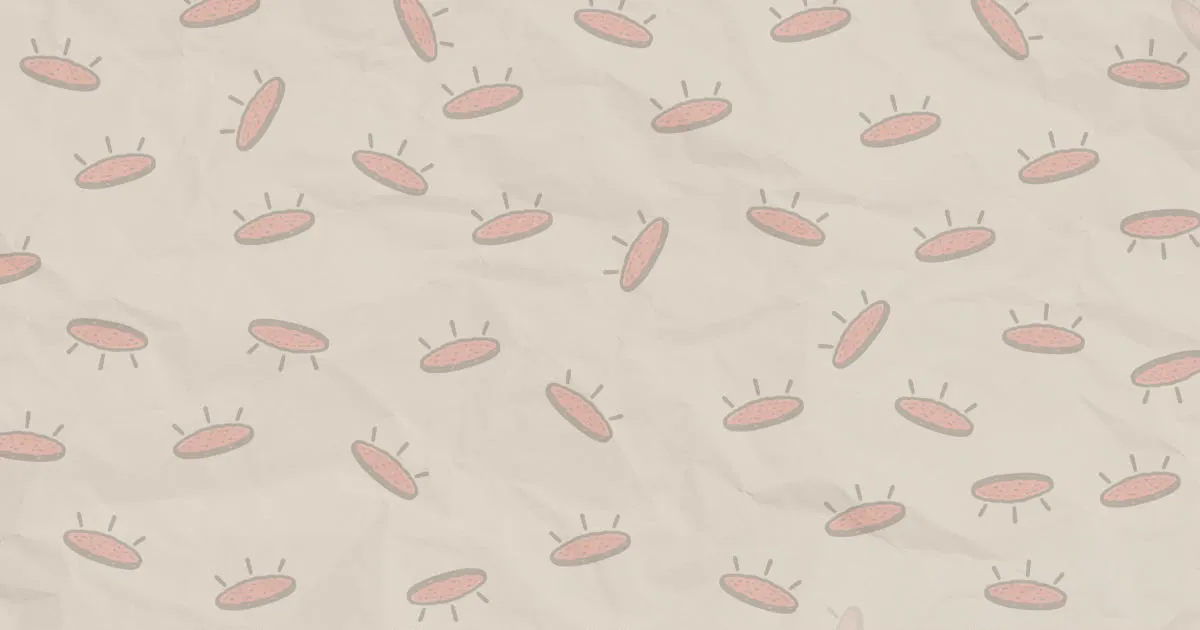
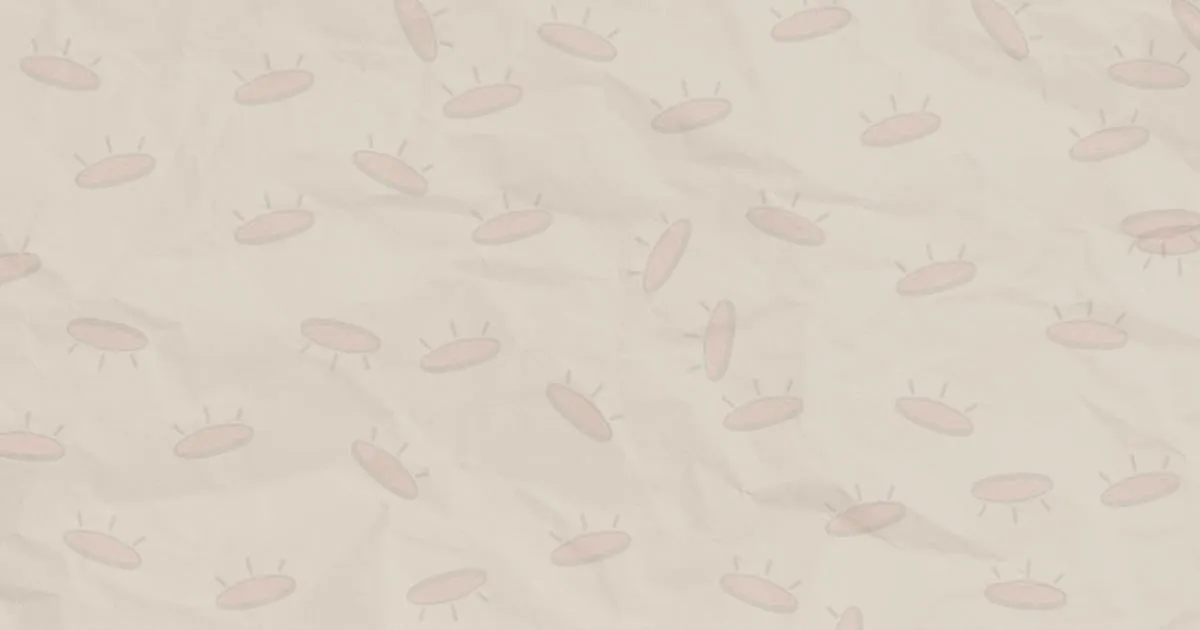
feat: capa com fundo claro da Brenda e selo do boi grande no lugar do quadro

diff --git a/style.css b/style.css
@@ -59,9 +59,7 @@ h1, h2, .titulo, .card h3 { font-family: 'Bebas Neue', 'Poppins', sans-serif; fo
 .hero {
   display: flex; align-items: center; justify-content: center; gap: 48px;
   padding: 48px 16px 56px;
-  background:
-    radial-gradient(circle at 15% 20%, var(--rosa), transparent 45%),
-    radial-gradient(circle at 85% 80%, var(--creme), transparent 50%);
+  background: url(img/capa-fundo.webp) center / cover; /* fundo de carninhas da Brenda (versão clara) */
 }
 .kicker { margin: 0; color: var(--md-sys-color-primary); font-weight: 600; text-transform: uppercase; font-size: .8rem; letter-spacing: 1.5px; }
 .status {
@@ -78,13 +76,9 @@ h1, h2, .titulo, .card h3 { font-family: 'Bebas Neue', 'Poppins', sans-serif; fo
 .hero h2 span { color: var(--md-sys-color-primary); }
 .hero-txt { animation: surgir .6s both; }
 .foto { position: relative; flex: none; width: min(480px, 45vw); animation: surgir .7s .1s both; }
-.foto > .capa {
-  aspect-ratio: 3 / 2; border-radius: 32px;
-  box-shadow: 0 24px 48px -20px rgb(44 26 21 / .55);
-  /* fundo de carninhas da Brenda, maior que o quadro e passeando devagar (sem emenda: não repete a imagem) */
-  background: url(img/capa-fundo.webp) 0% 0% / 160% auto;
-  animation: passear 20s ease-in-out infinite alternate;
-}
+/* por enquanto o selo do boi, grande, ocupa o lugar do quadro (depois vem o carrossel dos bois) */
+.foto { display: grid; place-items: center; }
+.foto .ring { position: relative; left: 0; bottom: 0; width: min(320px, 70vw); padding: 8px; }
 .ring {
   position: absolute; left: -28px; bottom: -28px;
   width: clamp(96px, 12vw, 130px); aspect-ratio: 1;
@@ -230,7 +224,6 @@ md-outlined-text-field { width: 100%; }
 @keyframes surgir { from { opacity: 0; transform: translateY(16px); } }
 @keyframes flutuar { 50% { transform: translateY(-10px); } }
 @keyframes girar { to { transform: rotate(360deg); } }
-@keyframes passear { to { background-position: 100% 100%; } }
 @keyframes balancar { 0%, 100% { transform: rotate(-5deg); } 50% { transform: rotate(5deg) translateY(-4px); } }
 
 @media (max-width: 700px) {

diff --git a/index.html b/index.html
@@ -45,8 +45,7 @@
       <md-filled-button href="#cardapio"><md-icon slot="icon">lunch_dining</md-icon>Ver cardápio</md-filled-button>
     </div>
     <div class="foto">
-      <div class="capa" role="img" aria-label="Fundo de hambúrgueres desenhado pela La Carne"></div>
-      <div class="ring"><img src="logo.png" alt="Logo La Carne"></div>
+      <div class="ring"><img src="img/selo.webp" alt="Logo La Carne" width="640" height="640"></div>
     </div>
   </section>
 
